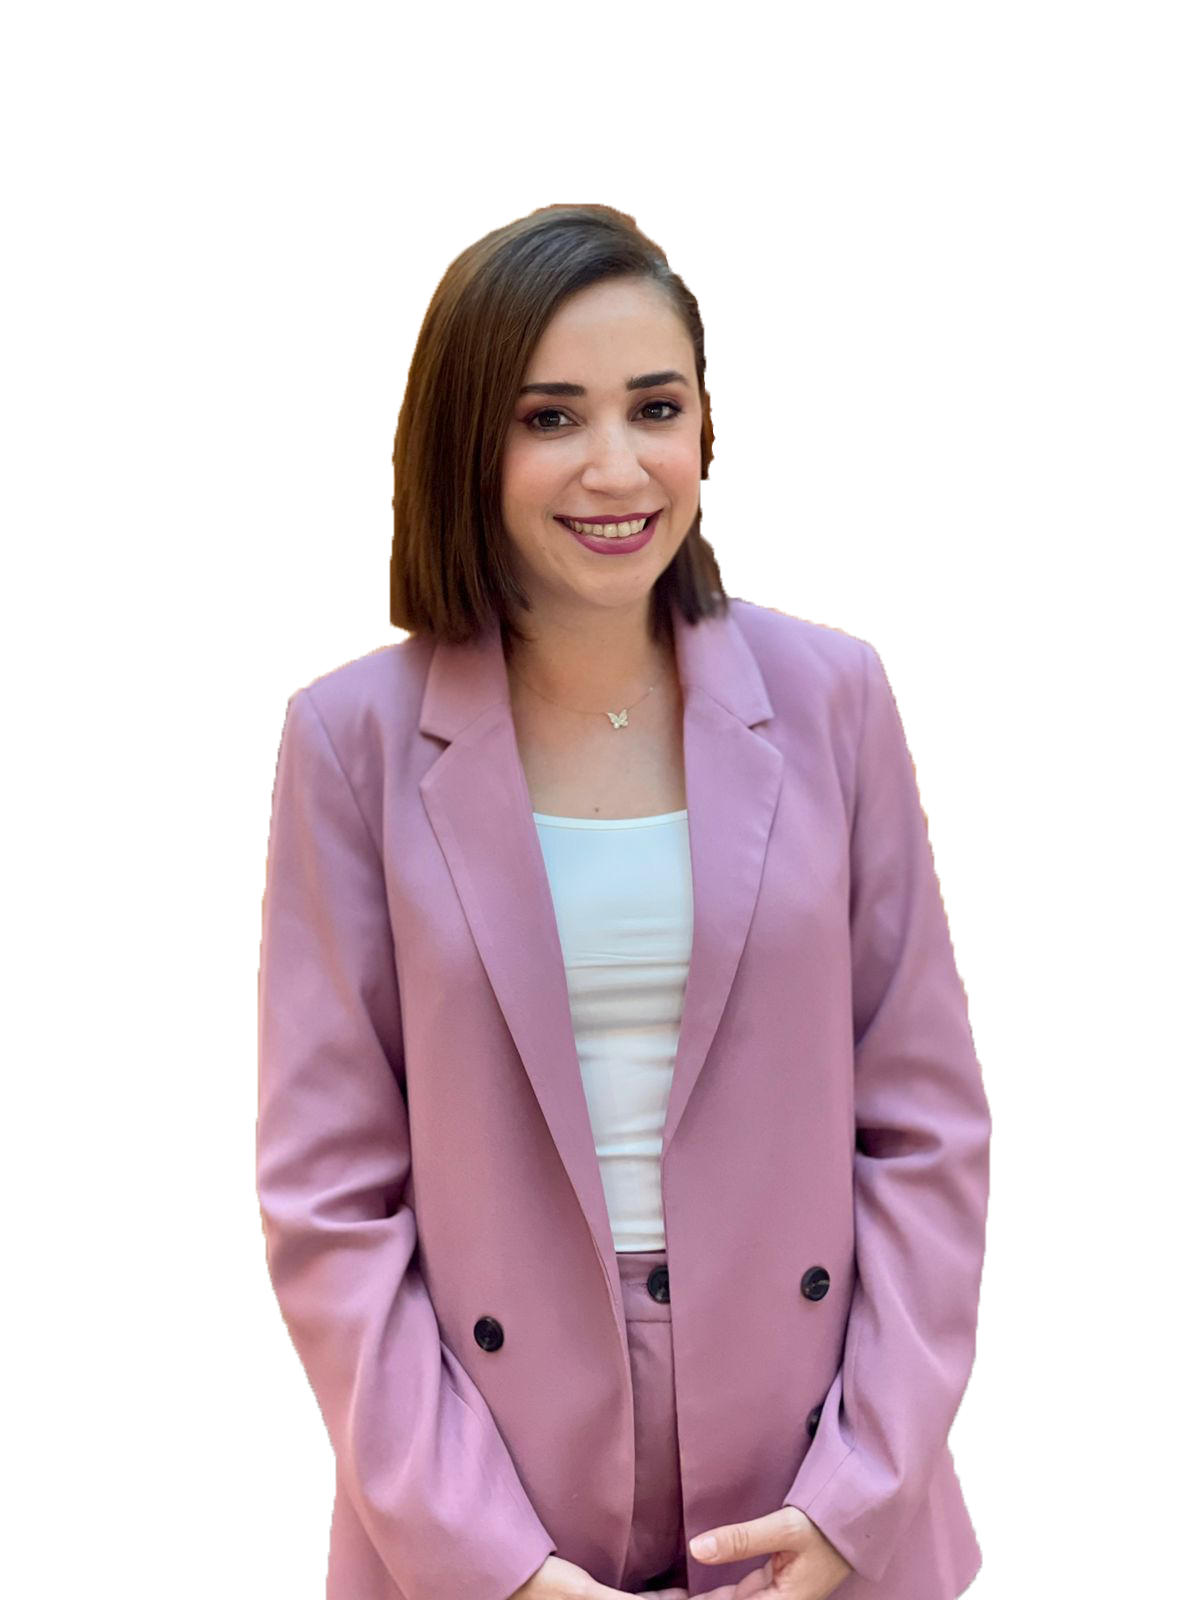
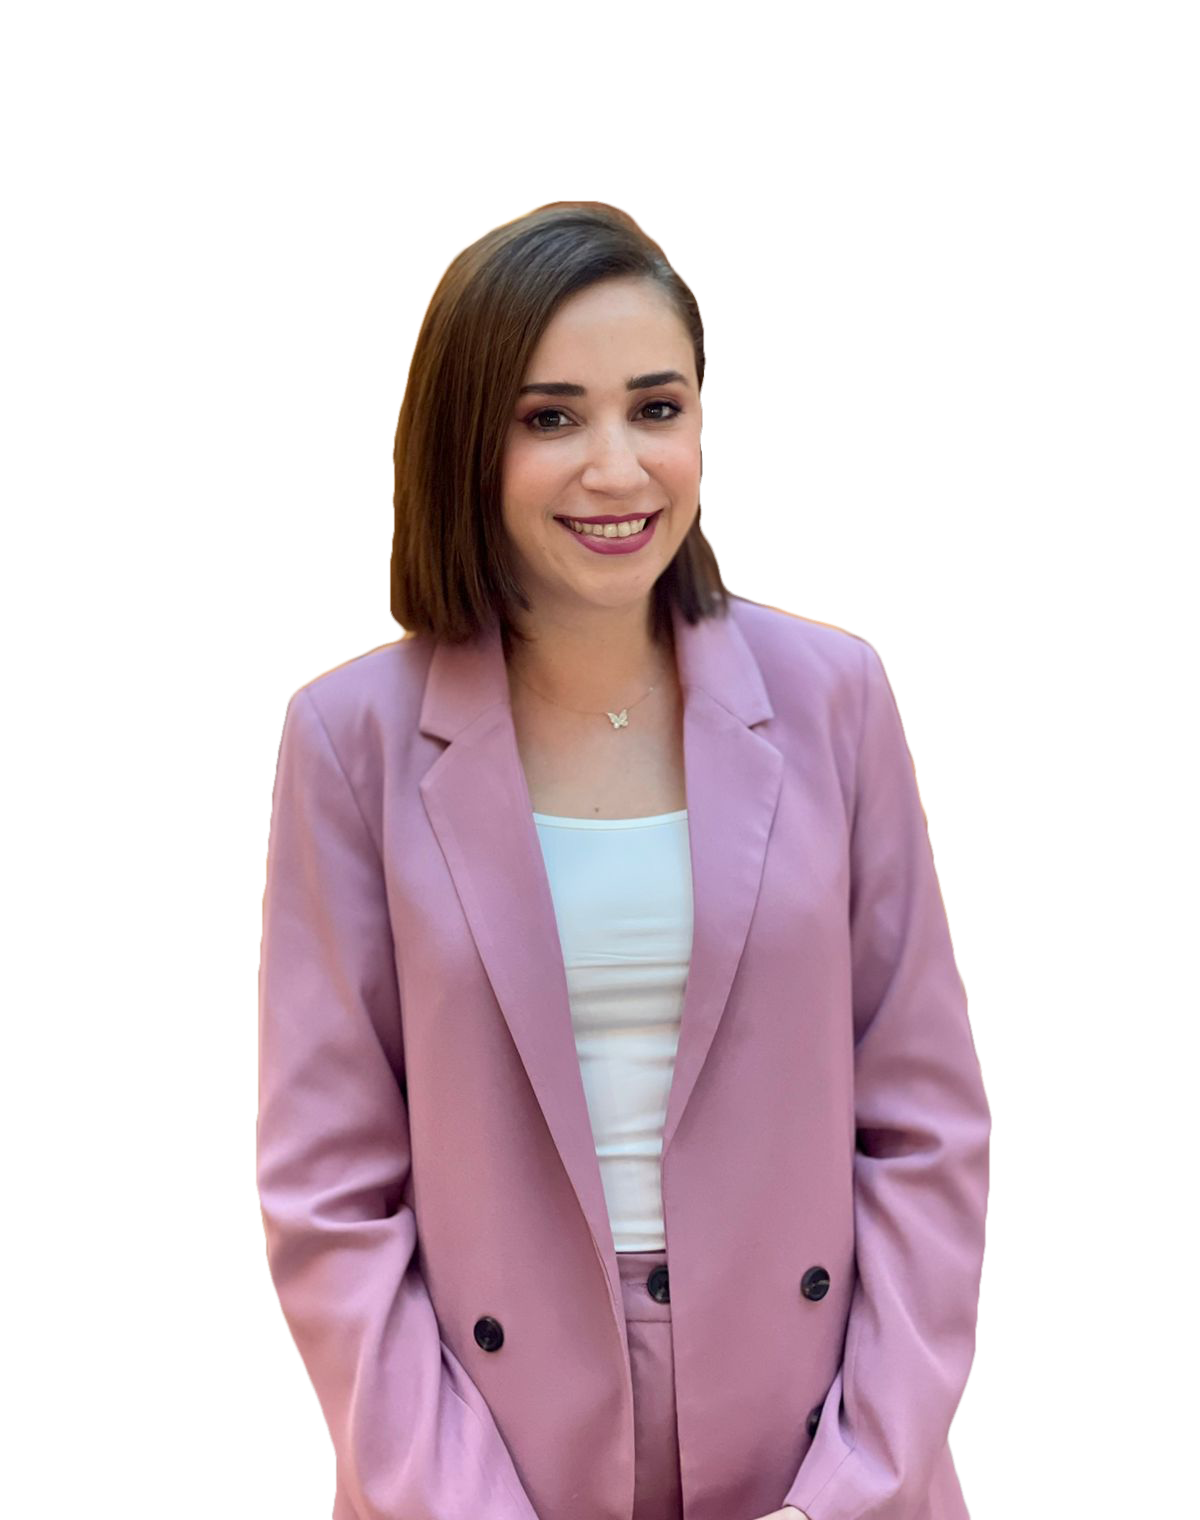
Update Header Image

Changed region(s): [[0.2158, 0.1237, 0.8325, 1.0]]

diff --git a/src/sections/Header.tsx b/src/sections/Header.tsx
@@ -26,7 +26,7 @@ const HeaderSection = () => {
             className="position-absolute end-0 bottom-0 me-5 mt-5"
             alt="Noor Photo"
             width={1200 * 0.36}
-            height={1600 * 0.36}
+            height={1520 * 0.36}
             priority
           />
         </Col>
